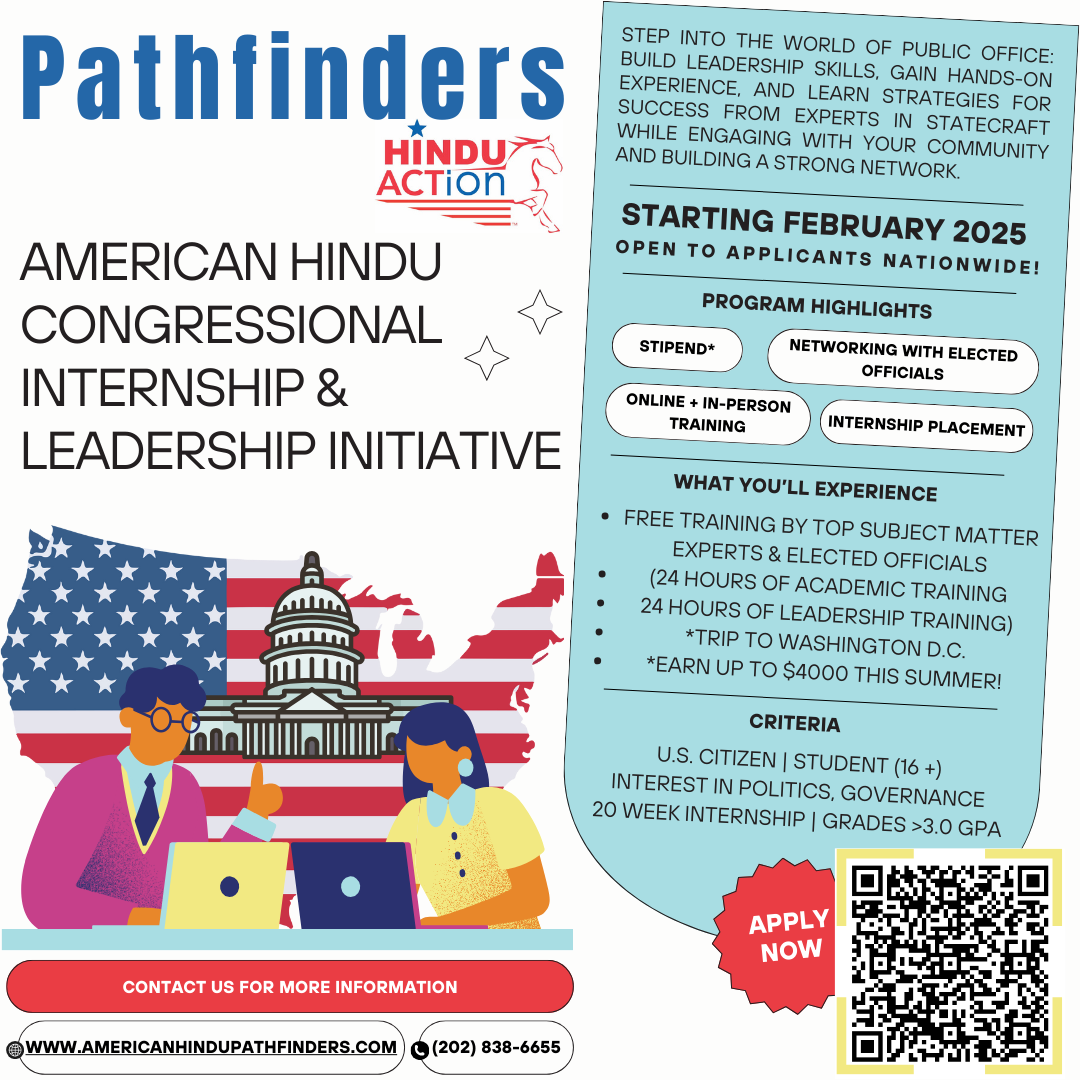
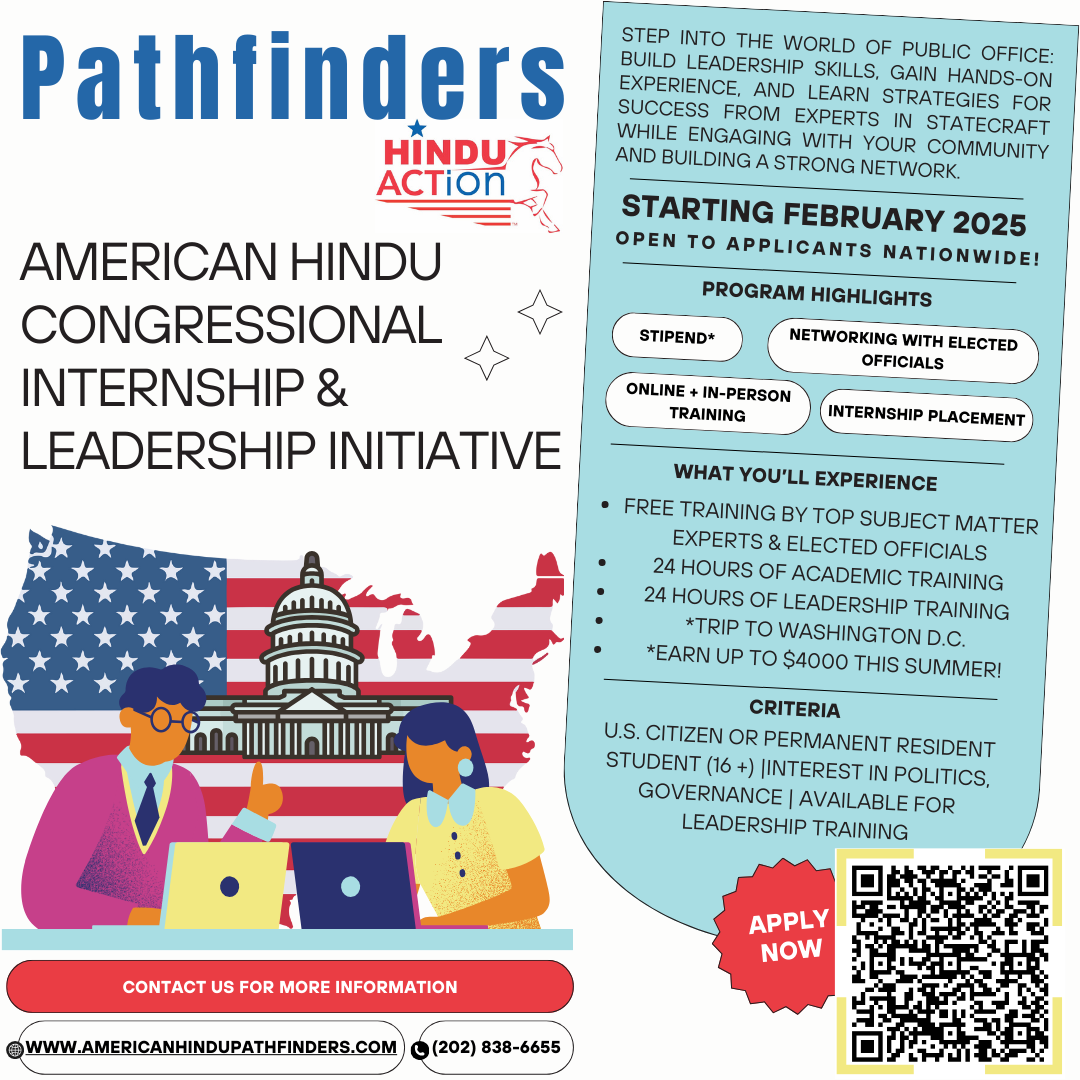
changes as per feedback

Changed region(s): [[0.55, 0.1528, 0.9778, 0.7944]]

diff --git a/src/index.html b/src/index.html
@@ -85,7 +85,7 @@ eleventyNavigation:
                 <h1 class="cs-title">Pathfinders Congressional Internship & Leadership Initiative</h1>
                 <p class="cs-text">
                     Step into Public Office:
-                    Present a new civilizational paradigm, develop leadership skills & gain hands-on experience in governance.
+                    Present a unique civilizational paradigm, develop leadership skills, and gain hands-on experience in policymaking and governance.
                 </p>
                 <!-- <a href="/about" class="cs-button-solid">Apply Now</a> -->
                 <a href="https://docs.google.com/forms/d/e/1FAIpQLScCfZdgv3LlZMllhuZBjm7lM0TCObyZYAFny9S90d0StL0AOw/viewform?usp=header/" class="cs-button-solid">Apply Now</a>
@@ -218,14 +218,20 @@ eleventyNavigation:
                     <b>by HINDUACTion</b>
                 </p>
                 <p class="cs-text">
-                    HINDUACTion is looking for energetic and outgoing American Hindu high school or 
-                    college students. We offer two distinct internship opportunities for students to 
-                    help them present a new civilizational paradigm, develop leadership skills & gain hands-on 
-                    experience in governance.
+                    HINDUACTion is looking for energetic and outgoing American Hindu High School or 
+                    College students. We offer two distinct internship opportunities for students to 
+                    learn about and present a unique civilizational paradigm, develop leadership skills 
+                    and gain hands-on public policy experience at both the State and Federal levels.
                 </p>
-                <p> These programs provide a chance to make meaningful impact while equipping 
+                <p class="cs-text">
+                    These programs provide a chance to make meaningful impact while equipping 
                     participants with the educational tools, leadership experience, and valuable networks 
                     to excel in public service or any leadership role.
+                </p>
+                <p class="cs-text">
+                    After participating in the leadership initiatives, College students mat have the opportunity 
+                    to intern with Congressional Representatives. High School students may be able to intern with 
+                    their State or Local Representatives.
                 </p>
                 <ul class="cs-card-group">
                     <li class="cs-item">
@@ -236,7 +242,7 @@ eleventyNavigation:
                             </h3>
                         </div>
                         <p class="cs-item-text">
-                            Open to undergraduates, and graduate students of any major (18+)
+                            Open to Undergraduates, and Graduate students of any major (18+)
                         </p>
                     </li>
                     <li class="cs-item">
@@ -247,7 +253,7 @@ eleventyNavigation:
                             </h3>
                         </div>
                         <p class="cs-item-text">
-                            Open to high school and undergraduate students (16+)
+                            Open to High School and Undergraduate students (16+)
                         </p>
                     </li>
                     
@@ -467,7 +473,7 @@ eleventyNavigation:
                     <img class="cs-icon" aria-hidden="true" loading="lazy" decoding="async" src="/assets/svgs/trip.svg" alt="icon" width="48" height="48">
                     <h3 class="cs-h3">Trip To Washington D.C.</h3>
                     <p class="cs-item-text">
-                        Take a fully paid trip to Washington D.C., and meet and learnn from elected officials. 
+                        Take a fully paid trip to Washington D.C., and meet and learn from elected officials. 
                         Experience public office firsthand through a Congressional internship.
                     </p>
                 </li>
@@ -546,7 +552,7 @@ eleventyNavigation:
                             </h3>
                         </div>
                         <p class="cs-item-text">
-                            Must be a U.S. citizen or permanent resident and over 18 years old.
+                            Must be a U.S. citizen or Permanent Resident and over 18 years old.
                         </p>
                     </li>
                     <!-- <li class="cs-item">
@@ -626,7 +632,7 @@ eleventyNavigation:
                             </h3>
                         </div>
                         <p class="cs-item-text">
-                            Must be a U.S. citizen or permanent resident and over 16 years old.
+                            Must be a U.S. citizen or Permanent Resident and over 16 years old.
                         </p>
                     </li>
                     <!-- <li class="cs-item">
